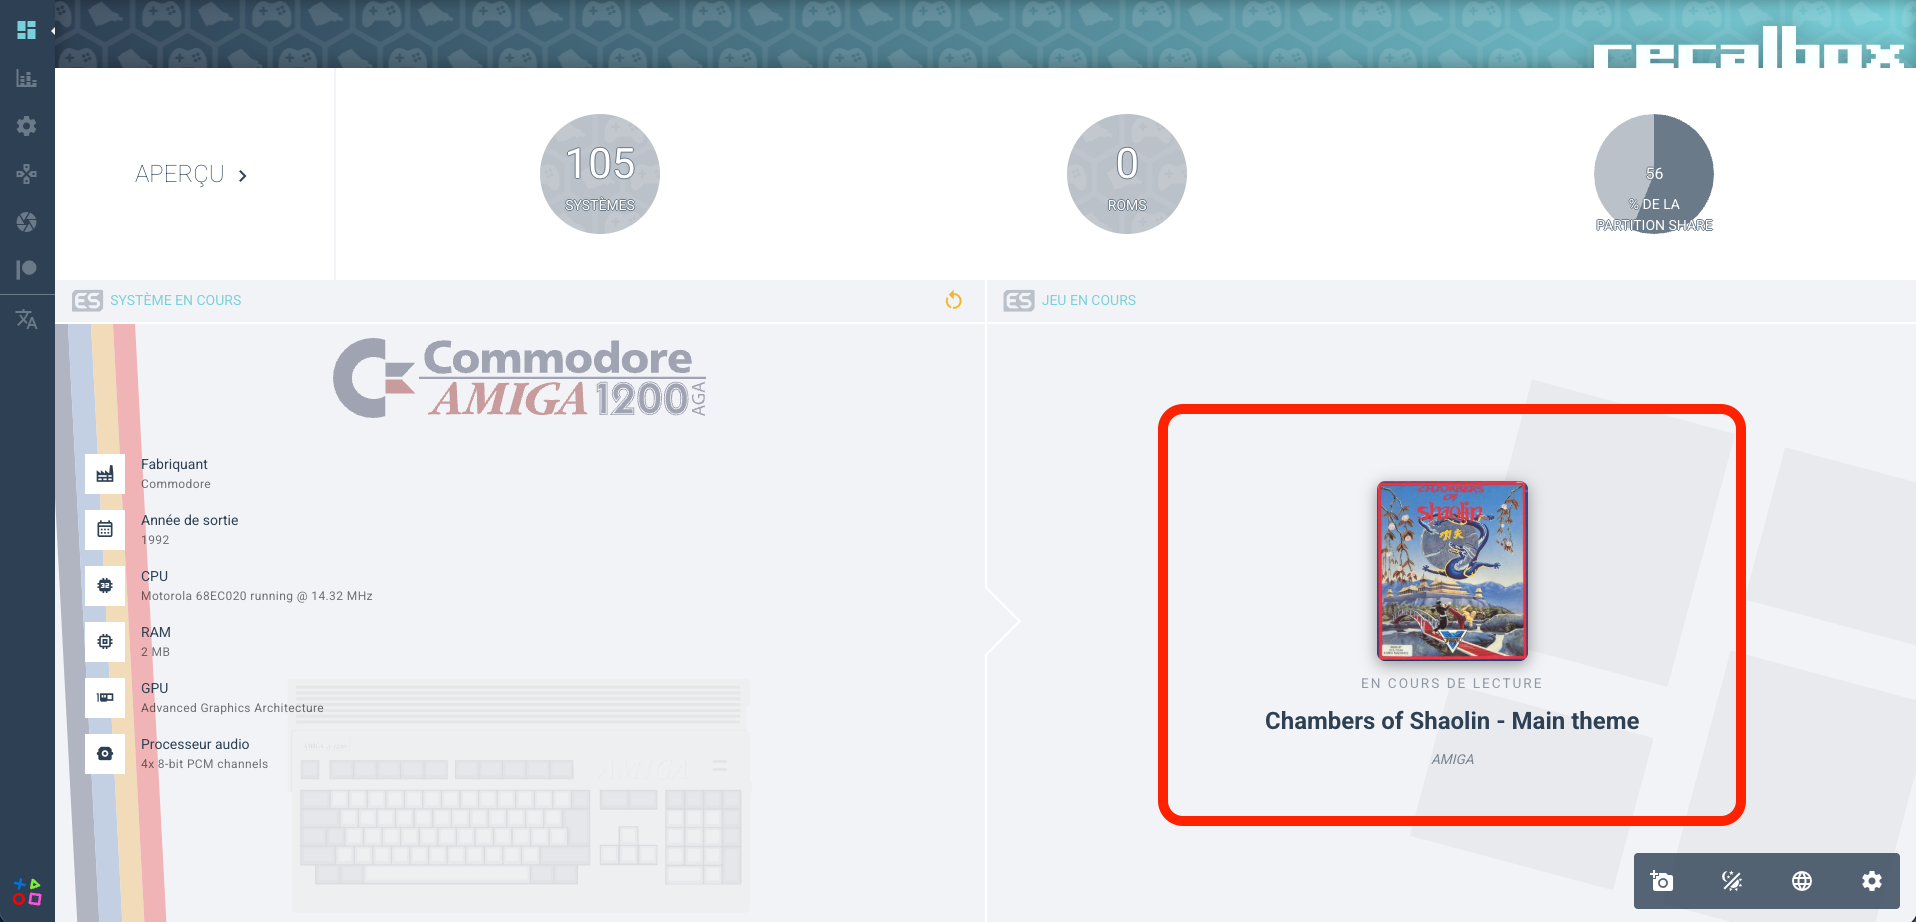
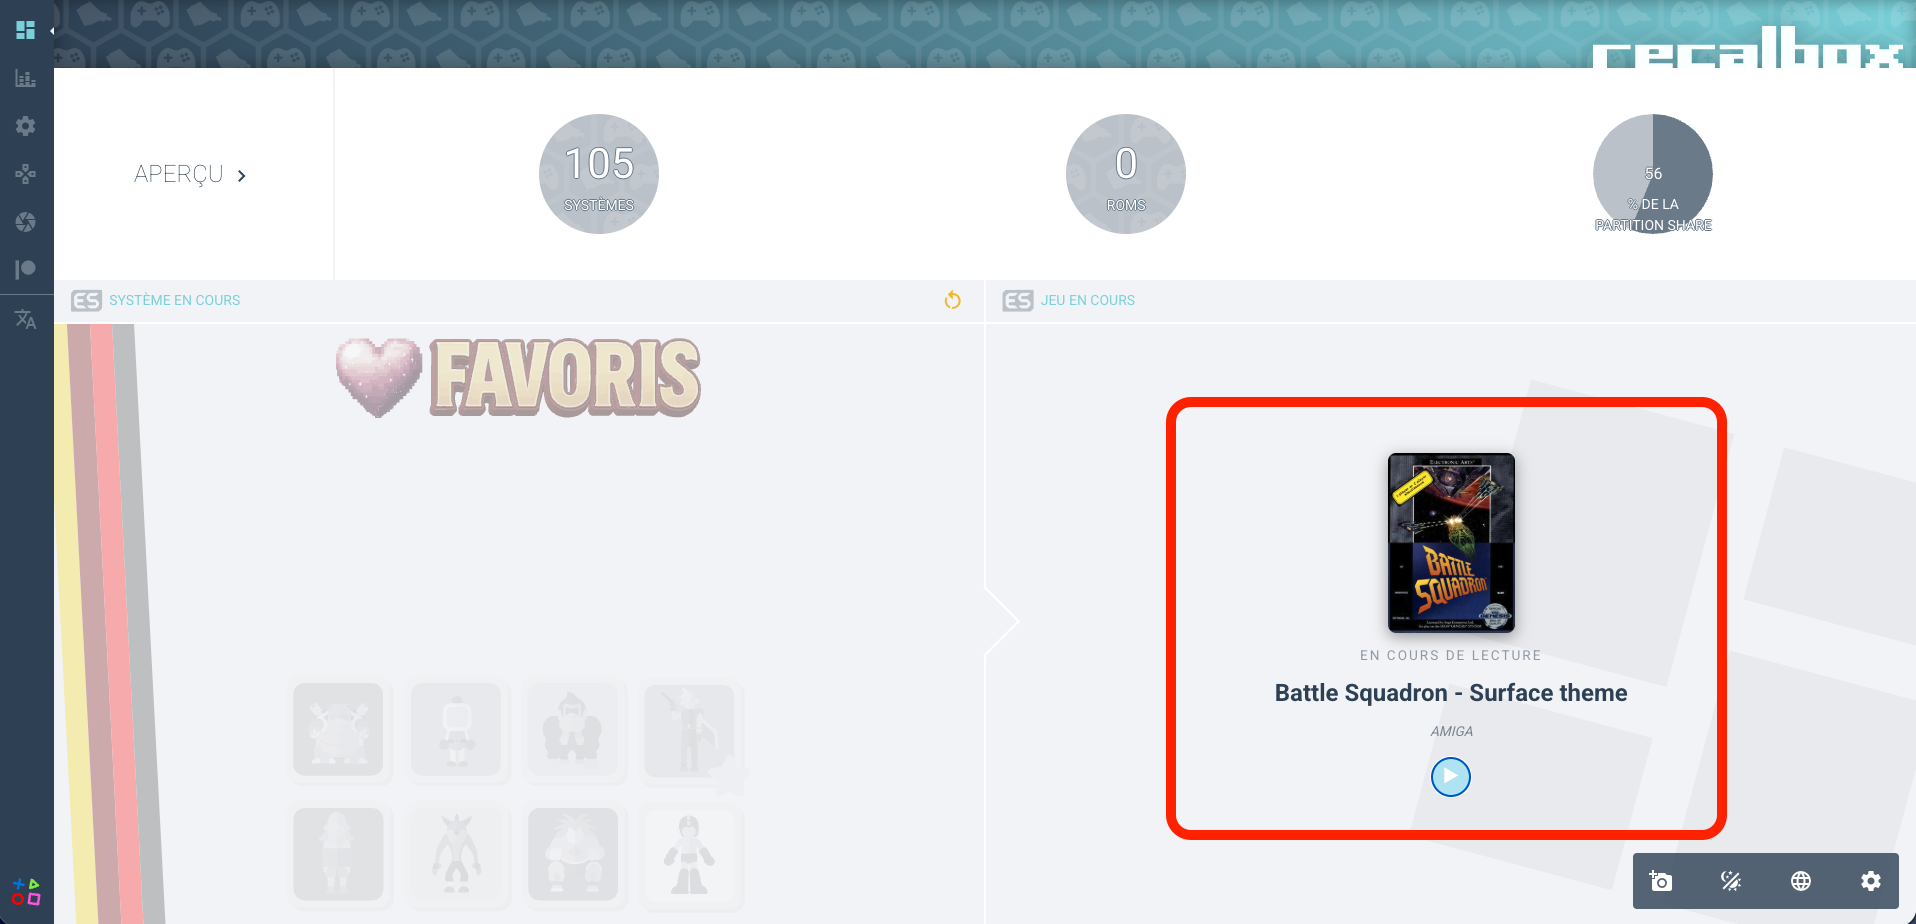
webmanager-addon: audio streaming, progressive cover search, CORS/ORB fixes, UI tweaks
- New /api/audio/stream endpoint with threaded server and HTTP Range support
- Play/stop button in now-playing display to stream ES music in browser
- CORS preflight, Access-Control-Allow-Origin, crossOrigin=anonymous to fix ORB blocking
- Progressive cover art search (strip parentheticals, then last word)
- Fuzzy titleMatch (prefix+suffix >= 70%) tolerates spaces, possessives, extra words
- Cover image created dynamically — no empty space when no cover found
- Faster initial poll (1.5s), cleaner track title wrapping, cyan play button

diff --git a/v10/webmanager-addon/README.md b/v10/webmanager-addon/README.md
@@ -6,7 +6,7 @@ A Recalbox userscript that extends the native web manager (port 20666) with cust
 
 | | |
 |---|---|
-| **Version** | 2.1 |
+| **Version** | 2.2 |
 | **Author** | LeCED |
 | **Contact** | noxious@caramail.fr |
 | **License** | Free to use and modify |
@@ -16,9 +16,10 @@ A Recalbox userscript that extends the native web manager (port 20666) with cust
 ## 🎯 Features
 
 | Feature | Description |
-|---|---|
+|---|---|---|
 | [Kill Emulator](#-kill-emulator) | Remotely stop a frozen or running emulator from the web manager gear menu |
 | [Now Playing Music](#-now-playing-music) | Display the current background music track with album cover art on the home page |
+| [Audio Streaming](#-audio-streaming) | Stream the current music track directly in the browser with a play/stop button |
 
 ---
 
@@ -46,9 +47,23 @@ When no game is running, the "Game" panel on the home page displays the currentl
 
 The music detection works by comparing EmulationStation's file descriptor read positions — the fd whose position changes between two snapshots is the currently playing track.
 
-The cover art search extracts the game name from the track filename and queries the Wikipedia REST API for a matching article thumbnail (trying slug variants `"X (video game)"`, `"X (game)"`, then `"X"`). An internet connection is required for cover art; without it, only the track name is displayed.
+The cover art search extracts the game name from the track filename and queries the Wikipedia REST API for a matching article thumbnail. It uses a **progressive name reduction** strategy: tries the full name with suffixes `"(video game)"`, `"(game)"`, then bare; if nothing found, strips parenthetical content or the last word and retries. A **fuzzy title matcher** (prefix + suffix common characters ≥ 70% of the search term) tolerates spacing differences (`RollerCoaster Tycoon`), possessives (`Tony Hawk's Pro Skater`), and prefix additions (`Bad Dudes Vs. DragonNinja`).
+
+An internet connection is required for cover art; without it, only the track name is displayed.
 
 > **📝 Note on filenames:** The script supports filenames following the `♪ [SYSTEM] Game Name - Track Title.mp3` convention (system and cover art are extracted automatically). Standard filenames like `My Song.mp3` also work — the full filename is displayed as the track title.
+
+---
+
+### 🎧 Audio Streaming
+
+The now-playing display includes a circular **play/stop button** (▶/⏹) below the track info. Clicking play streams the current music file directly from the Recalbox to the browser via a dedicated HTTP endpoint — no external services involved.
+
+- Streams from byte 0 (no sync complexity)
+- Standard HTTP Range support for timeline seeking
+- `crossorigin="anonymous"` CORS mode to avoid browser blocking
+- Plays the current track regardless of future ES track changes (manual replay to switch)
+- Audio element auto-resets on natural track end
 
 ---
 
@@ -66,15 +81,16 @@ At each ES startup, the script does three things:
 
 2. **Patches the web manager frontend JS** to inject buttons into the gear menu. The patch targets `MainLayout-*.js` in `/recalbox/web/manager-v3/assets/` and is re-applied at each boot to survive Recalbox updates.
 
-3. **Patches index.html** with an observer script that handles the kill-emulator button state polling and the now-playing music display (including cover art lazy loading).
+3. **Patches index.html** with an observer script that handles the kill-emulator button state polling and the now-playing music display (including cover art lazy loading, audio streaming, and sleep/wake DOM recovery).
 
 ### API Endpoints
 
 | Endpoint | Description |
-|---|---|
+|---|---|---|
 | `GET /api/kill-emulator` | Graceful stop then force kill current emulator |
 | `GET /api/status` | Check if an emulator is running (returns PIDs) |
 | `GET /api/now-playing` | Detect currently playing music track (~1s response time) |
+| `GET /api/audio/stream` | Stream current music file with HTTP Range support (optional `?path=` and `?offset=`) |
 | `GET /` | Mini standalone web UI |
 
 The mini UI is also accessible directly at `http://recalbox.local:8081/`.
@@ -130,7 +146,8 @@ The daemon's `status` command checks only the PID file; a stale PID causes the d
 webmanager-addon/
 ├── webmanager-addon[start](sync).py3    # The userscript (all-in-one)
 ├── uninstall-webmanager-addon[start](sync).py3  # Uninstall userscript (one-shot, self-deleting)
-└── README.md                            # This file
+├── README.md                            # This file
+└── AI.md                                # Session log (gitignored)
 ```
 
 ### On the Recalbox (created by the script)
@@ -147,7 +164,19 @@ webmanager-addon/
 
 ## 📝 Changelog
 
-### v2.1 — Cover art rework, sleep/wake fixes, UI improvements
+### v2.2 — Audio streaming, progressive cover search, CORS fixes
+- New endpoint `/api/audio/stream` with HTTP Range support and threaded server
+- Play/stop button (▶/⏹) in now-playing display — stream ES music directly in the browser
+- Server switched to `ThreadingMixIn` so streaming doesn't block other endpoints
+- OPTIONS handler for CORS preflight, `Access-Control-Allow-Origin` on all responses
+- `crossorigin="anonymous"` on audio element to avoid ORB blocking
+- No byte-position sync — always plays from beginning (manual replay for new tracks)
+- Progressive cover art name reduction: strips parentheticals then last word
+- Fuzzy `titleMatch` (prefix + suffix ≥ 70% of search term) handles spaces, possessives, extra words
+- Faster initial polling (1.5s first check, then every 10s)
+- Cover image removed from template — created dynamically only when a cover is found
+- Reduced `max-width` constraint on track title for better wrapping
+- Cyan accent play button colors for better visibility
 - Replace khinsider (server-side) with Wikipedia REST API (client-side) — bypasses Cloudflare 403
 - Fix slug ordering: `"X (video game)"` first, then `"X (game)"`, bare name last
 - Fix cover art race condition: stale Wikipedia responses discarded when track changes
